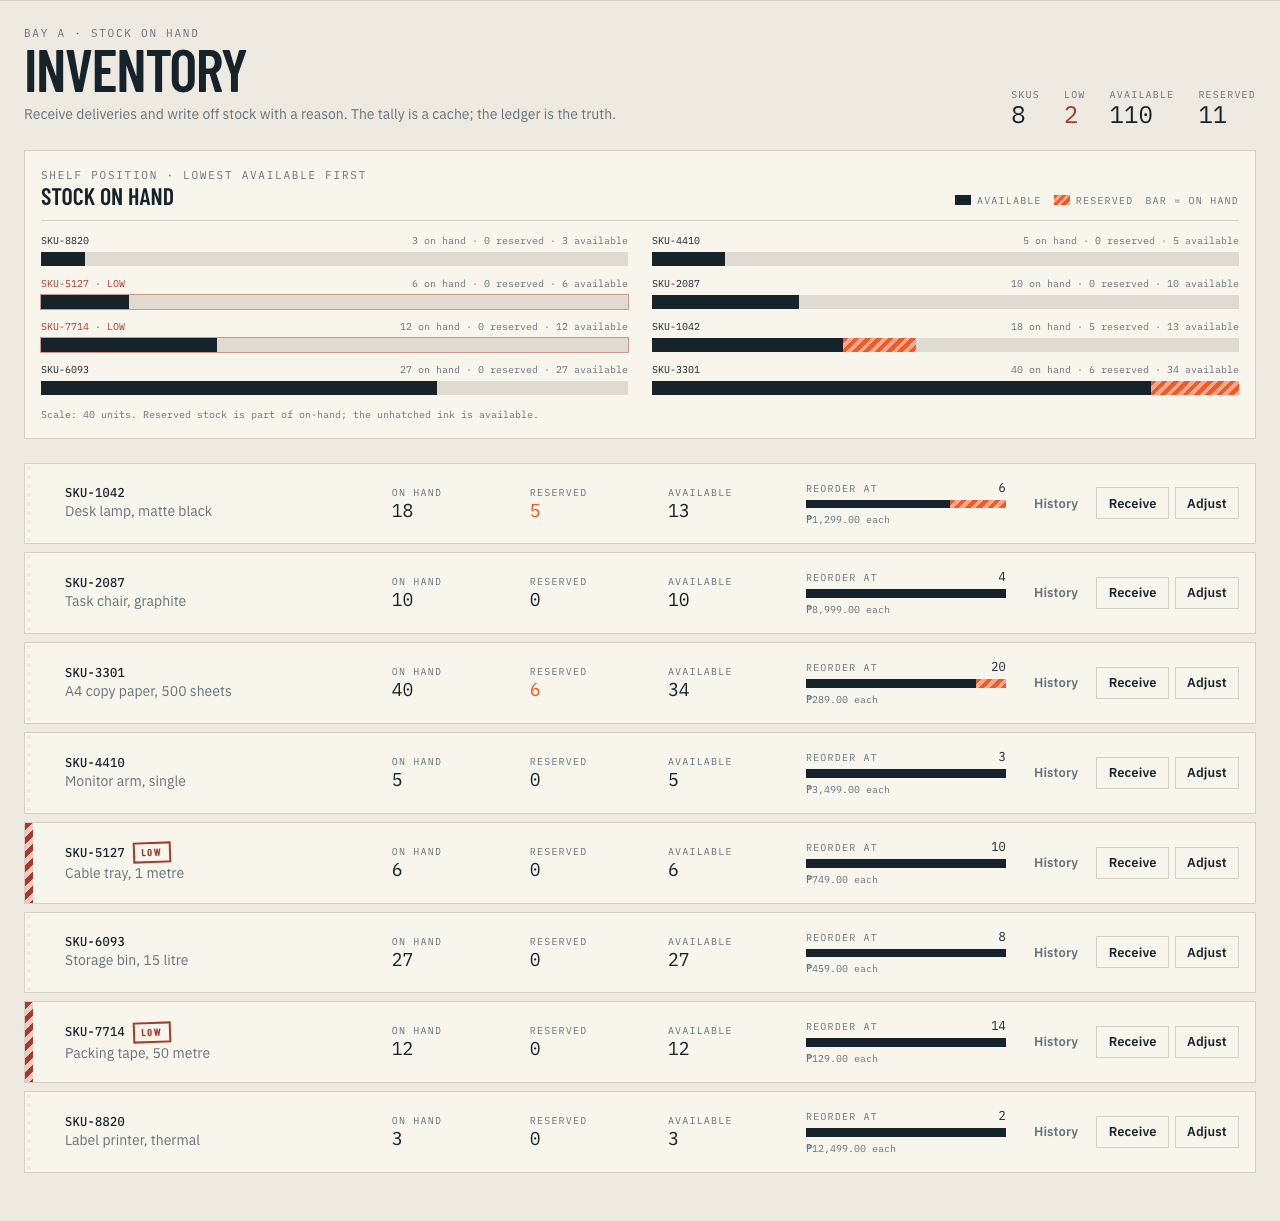
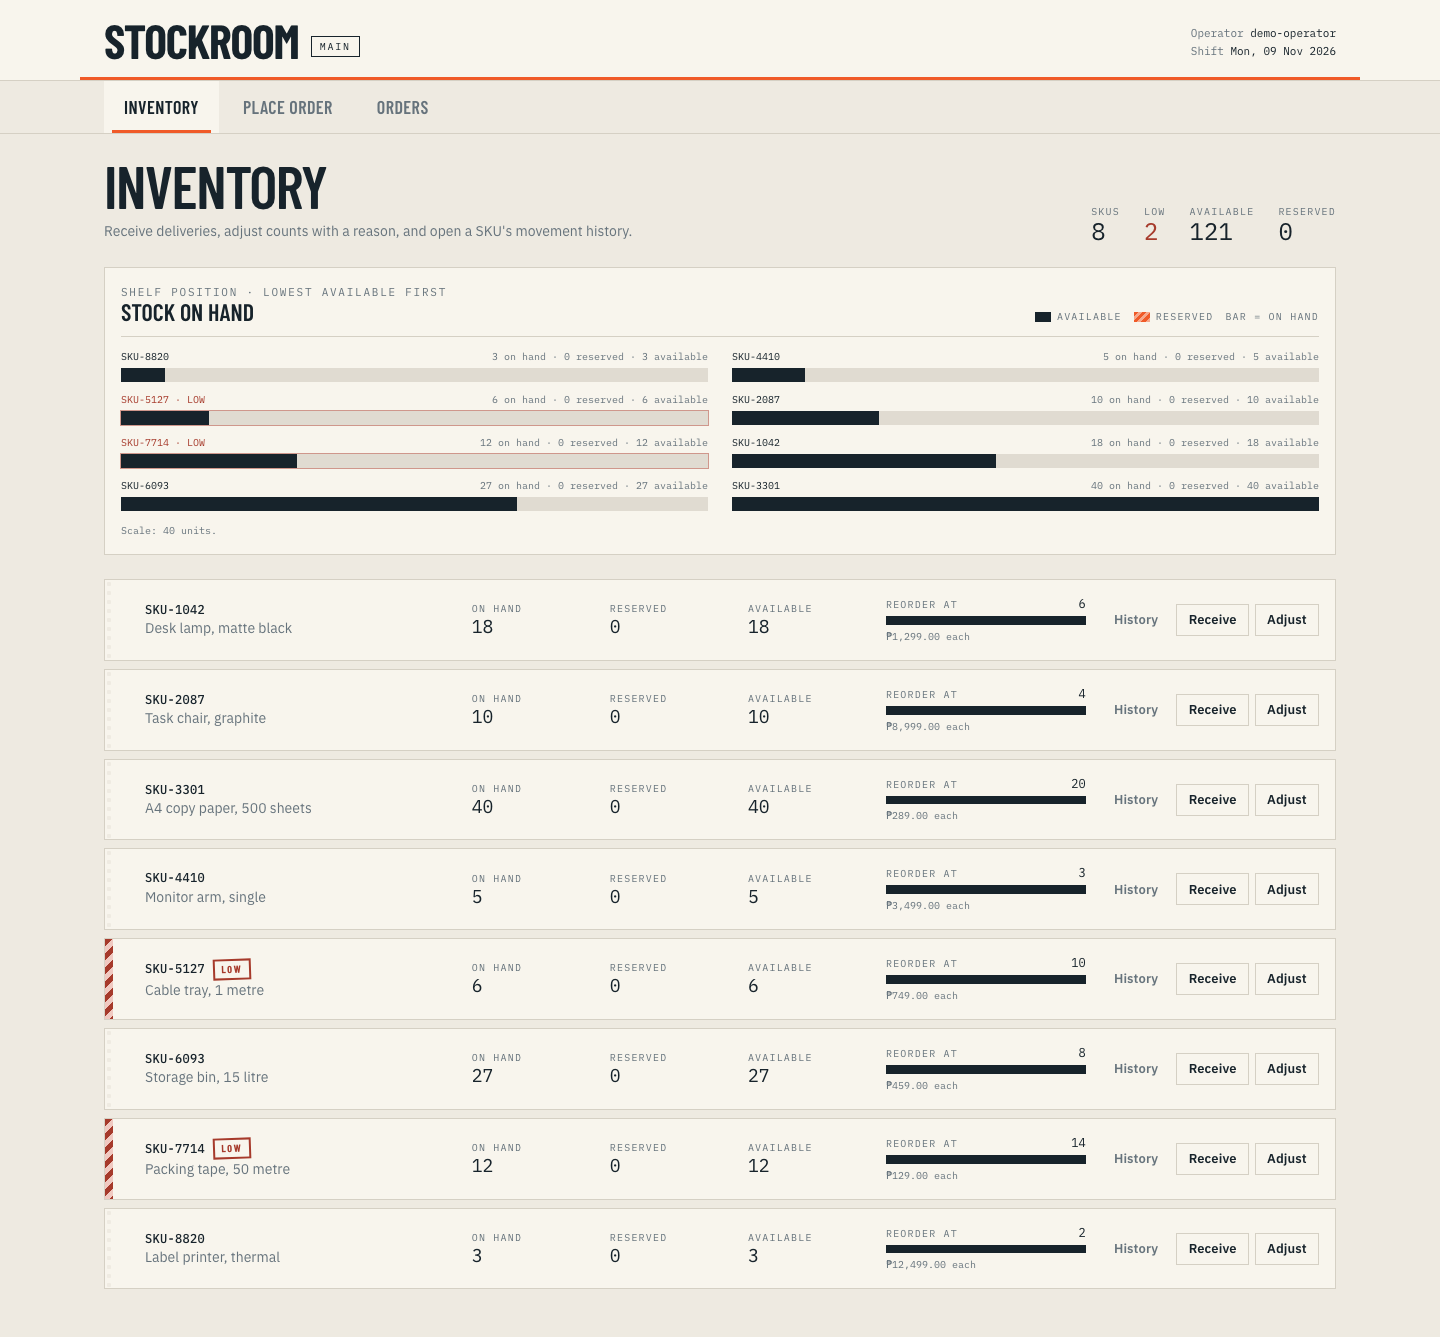
chore(ui): refresh screen copy and README screenshots (#80)
* chore(ui): tighten screen copy and state hints

Name the operator's actions in the three intros, replace the order-book and lane jargon, and make the empty and error copy say what to do next. Tests assert the changed copy only.

* docs: refresh the README screens and screenshots

Match 'What the app does' and 'Screens' to the current copy and label-only navigation, and regenerate all three shots from a fresh seeded stack at 1440x900.

* docs: record session 45 in the AI usage report

Summarise the copy pass, the fresh-stack capture and the validation runs; note the stale e2e helpers and README status wording as out-of-scope gaps.

* test(e2e): follow the label-only navigation and loading copy

Target 'Main navigation' via screenNav/openScreen, wait for the orders list and the new 'Reading orders…' line, and update every spec caller.

* docs: correct Phase 8 status and record the e2e follow-up

Only #70 remains open; #68 and #69 are closed. Extend Session 45 with the e2e helper repair and its local result.

diff --git a/tests/e2e/order-flow.spec.ts b/tests/e2e/order-flow.spec.ts
@@ -1,6 +1,6 @@
 import { expect, test } from "@playwright/test";
 
-import { chartRow, openBay, ordersList, shelfRow } from "./support";
+import { chartRow, openScreen, ordersList, shelfRow } from "./support";
 
 /**
  * US1-AC1 + US4-AC1 (e2e): search a SKU, add it, set quantity and customer
@@ -16,7 +16,7 @@ test("searches, reserves and fulfils an order, and the counters reflect the ship
     "40 on hand · 0 reserved · 40 available",
   );
 
-  await openBay(page, "Place order");
+  await openScreen(page, "Place order");
   await page.getByRole("searchbox", { name: "Search stock" }).fill("SKU-3301");
   await expect(
     page
@@ -34,12 +34,12 @@ test("searches, reserves and fulfils an order, and the counters reflect the ship
   await expect(confirmation).toContainText("201");
   await expect(confirmation).toContainText("confirmed");
 
-  await openBay(page, "Inventory");
+  await openScreen(page, "Inventory");
   await expect(chartRow(page, "SKU-3301")).toContainText(
     "40 on hand · 2 reserved · 38 available",
   );
 
-  await openBay(page, "Orders");
+  await openScreen(page, "Orders");
   await ordersList(page)
     .getByRole("button")
     .filter({ hasText: "E2E-FLOW-1" })
@@ -56,7 +56,7 @@ test("searches, reserves and fulfils an order, and the counters reflect the ship
   await drawer.getByRole("button", { name: "Close order" }).click();
   await expect(drawer).toBeHidden();
 
-  await openBay(page, "Inventory");
+  await openScreen(page, "Inventory");
   await expect(chartRow(page, "SKU-3301")).toContainText(
     "38 on hand · 0 reserved · 38 available",
   );

diff --git a/frontend/src/screens/OrdersScreen.tsx b/frontend/src/screens/OrdersScreen.tsx
@@ -28,7 +28,7 @@ const FILTERS: { id: OrderFilter; label: string }[] = [
 const EMPTY_COPY: Record<OrderFilter, { title: string; body: string }> = {
   all: {
     title: 'No orders yet',
-    body: 'Place an order and it will appear in this lane with its full movement history.',
+    body: 'Place an order and it appears here with its full movement history.',
   },
   confirmed: {
     title: 'No confirmed orders',
@@ -96,7 +96,8 @@ export default function OrdersScreen() {
           Orders
         </h1>
         <p className="mt-2 max-w-2xl text-sm leading-relaxed text-steel">
-          Cancel releases the hold; fulfil moves stock off the shelf.
+          Open an order for its lines and movement timeline; cancel releases the hold, fulfil moves
+          stock off the shelf.
         </p>
       </header>
 
@@ -121,7 +122,7 @@ export default function OrdersScreen() {
       ) : null}
 
       {isPending ? (
-        <p className="mt-5 font-mono text-xs text-steel">Reading the order book…</p>
+        <p className="mt-5 font-mono text-xs text-steel">Reading orders…</p>
       ) : null}
 
       {!isPending && !error && orders.length === 0 ? (
@@ -249,7 +250,7 @@ function OrderDrawer({
         {notFound && !error ? (
           <div className="notice mt-4" role="alert">
             <p className="font-semibold">Order not found</p>
-            <p className="mt-1 leading-relaxed">Pick another order from the lane.</p>
+            <p className="mt-1 leading-relaxed">Pick another order from the list.</p>
           </div>
         ) : null}
 

diff --git a/tests/e2e/short-line.spec.ts b/tests/e2e/short-line.spec.ts
@@ -2,7 +2,7 @@ import { expect, test } from "@playwright/test";
 
 import {
   chartRow,
-  openBay,
+  openScreen,
   ordersList,
   ordersLoaded,
   shelfRow,
@@ -26,12 +26,12 @@ test("a short line rejects the whole order and reserves nothing", async ({
     "10 on hand · 0 reserved · 10 available",
   );
 
-  await openBay(page, "Orders");
+  await openScreen(page, "Orders");
   await ordersLoaded(page);
   const orders = ordersList(page).getByRole("listitem");
   const ordersBefore = await orders.count();
 
-  await openBay(page, "Place order");
+  await openScreen(page, "Place order");
   const search = page.getByRole("searchbox", { name: "Search stock" });
 
   await search.fill("SKU-4410");
@@ -57,7 +57,7 @@ test("a short line rejects the whole order and reserves nothing", async ({
 
   await expect(page.getByRole("status")).toHaveCount(0);
 
-  await openBay(page, "Inventory");
+  await openScreen(page, "Inventory");
   await expect(chartRow(page, "SKU-4410")).toContainText(
     "5 on hand · 0 reserved · 5 available",
   );
@@ -65,7 +65,7 @@ test("a short line rejects the whole order and reserves nothing", async ({
     "10 on hand · 0 reserved · 10 available",
   );
 
-  await openBay(page, "Orders");
+  await openScreen(page, "Orders");
   await ordersLoaded(page);
   await expect(orders).toHaveCount(ordersBefore);
 });

diff --git a/frontend/src/screens/InventoryScreen.tsx b/frontend/src/screens/InventoryScreen.tsx
@@ -110,7 +110,7 @@ export default function InventoryScreen() {
             Inventory
           </h1>
           <p className="mt-2 max-w-2xl text-sm leading-relaxed text-steel">
-            Receive deliveries and write off stock with a reason.
+            Receive deliveries, adjust counts with a reason, and open a SKU's movement history.
           </p>
         </div>
 
@@ -134,7 +134,7 @@ export default function InventoryScreen() {
         <div className="mt-6">
           <EmptyState
             title="No stock yet"
-            body="Receive the first delivery to put a SKU on the shelf."
+            body="Receive a delivery to add the first SKU to the shelf."
           />
         </div>
       ) : null}
@@ -312,7 +312,7 @@ function AdjustDialog({ row, onClose }: { row: StockRow; onClose: () => void }) 
             <InvalidMessage id={deltaErrorId}>Enter a whole number other than zero.</InvalidMessage>
           ) : (
             <span className="mt-1 block font-mono text-[10px] text-steel">
-              {formatMoney(row.unit_price_cents)} per unit · negative writes stock off
+              {formatMoney(row.unit_price_cents)} per unit · a negative adjustment removes stock
             </span>
           )}
         </div>

diff --git a/tests/e2e/support.ts b/tests/e2e/support.ts
@@ -6,12 +6,12 @@ import { expect, type Page } from "@playwright/test";
  * `data-testid` is needed.
  */
 
-export function bayNav(page: Page) {
-  return page.getByRole("navigation", { name: "Stockroom bays" });
+export function screenNav(page: Page) {
+  return page.getByRole("navigation", { name: "Main navigation" });
 }
 
-export async function openBay(page: Page, name: string) {
-  await bayNav(page).getByRole("button", { name }).click();
+export async function openScreen(page: Page, name: string) {
+  await screenNav(page).getByRole("button", { name }).click();
 }
 
 /** One bin ticket in the inventory list. */
@@ -34,7 +34,8 @@ export function ordersList(page: Page) {
   return page.getByRole("list", { name: "Orders" });
 }
 
-/** Wait for the orders lane to finish its first read before counting rows. */
+/** Wait for the orders screen to finish its first read before counting rows. */
 export async function ordersLoaded(page: Page) {
-  await expect(page.getByText("Reading the order book…")).toHaveCount(0);
+  await expect(ordersList(page)).toBeVisible();
+  await expect(page.getByText("Reading orders…")).toHaveCount(0);
 }

diff --git a/frontend/src/screens/PlaceOrderScreen.tsx b/frontend/src/screens/PlaceOrderScreen.tsx
@@ -133,13 +133,14 @@ export default function PlaceOrderScreen() {
           Place order
         </h1>
         <p className="mt-2 max-w-2xl text-sm leading-relaxed text-steel">
-          An order reserves every line or reserves nothing.
+          Add stock to the ticket and reserve it; if any line is short, nothing is reserved and the
+          short lines are named.
         </p>
       </header>
 
       {error ? (
         <div className="mt-6">
-          <ProblemNotice error={error} title="Could not read stock" />
+          <ProblemNotice error={error} title="Could not load availability" />
         </div>
       ) : null}
 
@@ -280,7 +281,7 @@ export default function PlaceOrderScreen() {
 
             {lines.length === 0 ? (
               <p className="mt-5 border border-dashed border-line p-4 text-sm text-steel">
-                No lines yet. Add stock from the shelf list.
+                No lines yet. Add a SKU from the availability list to start the ticket.
               </p>
             ) : (
               <ul className="mt-4" aria-label="Order lines">

diff --git a/frontend/src/screens/OrdersScreen.test.tsx b/frontend/src/screens/OrdersScreen.test.tsx
@@ -295,10 +295,10 @@ describe('orders', () => {
     const api = createMockApi({ latencyMs: 40 });
     renderWithApi(<OrdersScreen />, api);
 
-    expect(screen.getByText('Reading the order book…')).toBeInTheDocument();
+    expect(screen.getByText('Reading orders…')).toBeInTheDocument();
     expect(await screen.findByRole('button', { name: /CUST-88/ })).toBeInTheDocument();
     await waitFor(() =>
-      expect(screen.queryByText('Reading the order book…')).not.toBeInTheDocument(),
+      expect(screen.queryByText('Reading orders…')).not.toBeInTheDocument(),
     );
   });
 

diff --git a/frontend/src/screens/InventoryScreen.test.tsx b/frontend/src/screens/InventoryScreen.test.tsx
@@ -499,7 +499,7 @@ describe('inventory', () => {
     const title = await screen.findByText('No stock yet');
     expect(title.closest('.border-dashed')).not.toBeNull();
     expect(
-      screen.getByText('Receive the first delivery to put a SKU on the shelf.'),
+      screen.getByText('Receive a delivery to add the first SKU to the shelf.'),
     ).toBeInTheDocument();
 
     const list = await stockList();

diff --git a/frontend/src/screens/PlaceOrderScreen.test.tsx b/frontend/src/screens/PlaceOrderScreen.test.tsx
@@ -108,7 +108,7 @@ describe('place order', () => {
     );
     renderWithApi(<PlaceOrderScreen />, api);
 
-    expect(await screen.findByText('Could not read stock')).toBeInTheDocument();
+    expect(await screen.findByText('Could not load availability')).toBeInTheDocument();
     expect(
       screen.getByText('The stock service is not responding.'),
     ).toBeInTheDocument();

diff --git a/_docs/ai-usage-report.md b/_docs/ai-usage-report.md
@@ -55,6 +55,7 @@ the build-only layer that leaked a token into the image" is.
 | 42  | 2026-11-08 | P8    | AI coding agent (software engineer session)            | Complete the reports and refresh the handoff (T8.2, #69)                                   | AI-report summary rows 29–41; new `_docs/operations-and-security-report.md`; `_docs/handoff.md` refreshed to the P8 state; this entry                                                                                                    | Every relative link checked against the worktree; issue numbers checked with `gh issue list --state all`; AI-report rows matched to the detailed entries; `git diff --stat main...HEAD` limited to the three docs; `git diff --check` clean                                                                                         | See notes below     |
 | 43  | 2026-11-08 | P8    | AI coding agent (software engineer session)            | Apply QA's three demo-script corrections: tag, drill override, verdict (#70)               | `_docs/demo-script.md` beat 7 illustrative tag and run link refreshed; appendix step 2 appends the drill environment instead of replacing the override; beat 3 cites the post-merge verdict; this report entry                           | GHCR anonymous `tags/list` and `docker manifest inspect` for 20261108-144014-ff1c4fb; run 42490709942 on main at ff1c4fb; appendix replayed on three /tmp copies (`docker compose config`: remap kept, both keys set); comment 6559807977 returns 200 and is `## QA: post-merge PASS`; `git diff --check` clean                     | See notes below     |
 | 44  | 2026-11-09 | P7    | AI coding agent (software engineer session)            | Preserve a machine-local override when setting up the drill stack (#76)                     | `on-call-engineer/drills/fulfil-last-units-500/README.md` step 2 appends a second YAML document in the `_docs/demo-script.md` shape instead of `cat >`; this report row and entry                                                     | `docker compose config` on throwaway `/tmp` copies: with `ports: !override ["18000:8000"]` exit 0 and `published: "18000"`; with no override exit 0 and `published: "8000"`; both keys carried and `STOCKROOM_BUILD_TIME` kept as a quoted ISO string; `make lint`; `make test` 291 + 91; `git diff --check` clean                              | See notes below     |
+| 45  | 2026-11-09 | P8    | AI coding agent (software engineer session)            | Refresh the screen copy and regenerate the README screenshots                               | Enhanced intro, loading, empty, error and hint copy in the three screens; updated the four copy assertions; refreshed README "What the app does" and "Screens"; fixed the e2e navigation and loading helpers; corrected the README Status rows; regenerated `_docs/screenshots/*.png`; this report row and entry       | `npm run typecheck`, `npm run lint`, `npm test` (10 files, 91 passed, 1 skipped), `make lint` and `make e2e` (4 passed, 6 skipped); fresh `stockroom-screens` Compose project on port 8000 with a new volume, Playwright at 1440×900, all three images inspected; `git status` limited to the intended files                 | See notes below     |
 
 ## Session 1 — 2026-10-27: scoping and specification
 
@@ -2196,6 +2197,59 @@ code. Did not commit an override file.
 **Known gaps.** The verification used a throwaway git repo and `/tmp` copies, so it proves the
 command shape and the Compose merge, not a live drill replay. The branch named in the README's
 `git rev-parse` is expected to exist on the replay machine, as the drill setup creates it.
+
+## Session 45 — 2026-11-09: screen copy and README screenshots
+
+**What I asked for.** A follow-up UI/README copy pass after #68: improve the three screen intros,
+loading/empty/error copy and any terse or jargon-heavy screen hints; refresh "What the app does" and
+"Screens" for the label-only navigation; regenerate the three screenshots from a fresh seeded stack
+at desktop width. Keep structure, layout, components and behaviour unchanged; do not re-add the
+filler removed in the copy audit; keep the change scoped; do not reuse the `stockroom-qa-cursor`
+stack. A review follow-up then asked for the e2e helper drift and the stale README Status rows to be
+fixed in the same branch.
+
+**What AI did.**
+
+- Inventory: the intro now names receive, adjust and movement history; the empty state says what to
+  do first; the adjustment hint says a negative adjustment removes stock.
+- Place order: the intro says to add stock and reserve it, with the all-or-nothing short-line
+  consequence; the stock error names availability; the empty ticket points at the availability
+  list.
+- Orders: the intro includes opening an order for its timeline; "order book" and "lane" became
+  "orders" and "list"; the order-not-found copy points at the list.
+- Updated the four tests that asserted the changed copy; no behavioural assertion was weakened.
+- README: refreshed the three rows in "What the app does", the Screens intro (label-only
+  navigation) and the three alt texts.
+- Regenerated `_docs/screenshots/{inventory,place-order,orders}.png` with a throwaway Playwright
+  script, then deleted the script and the stack.
+- Review follow-up: repaired the e2e drift — `bayNav`/`openBay` became `screenNav`/`openScreen`
+  against the `Main navigation` label, `ordersLoaded` waits on the new `Reading orders…` line and
+  the orders list, and every spec caller was updated. Also corrected the README Status paragraph,
+  Tracker row and Next row for closed #68 and #69.
+
+**Verified myself.**
+
+- `npm run typecheck`, `npm run lint`, `npm test`: 10 files, 91 passed, 1 skipped.
+- `make lint`: ruff check, ruff format check (82 files), tsc and eslint clean.
+- `make e2e`: 4 passed, 6 skipped in 4.0s. The passing specs were the two inventory journeys, the
+  order flow and the short line; the six opt-in observability specs skipped as designed. The run
+  started and tore down its own `stockroom-e2e` stack.
+- Capture: `docker compose -p stockroom-screens up --build -d` on port 8000 with a fresh
+  `stockroom-screens_stockroom-db` volume; Playwright Chromium at 1440×900 with reduced motion;
+  inventory and place-order full-page, orders viewport. Inspected all three images: eight SKUs, the
+  two low-stock badges, two ticket lines beside availability, and the drawer timeline.
+  `docker compose -p stockroom-screens down -v` removed the containers, network and volume.
+- `git status` contains only `README.md`, the three PNGs, the three screens, their three tests,
+  `tests/e2e/support.ts` with the two specs that use it, and this report.
+
+**Overruled / changed.** Did not add components, icons, colours or motion, and did not restore any of
+the internal or marketing copy removed in the copy audit. Did not modify `playwright.config.ts`, the
+e2e Compose override or unrelated README sections; the e2e edit is limited to the renamed
+navigation helper and the loading wait. The order shown in the Orders screenshot (`CUST-DEMO`,
+SKU-1042 and SKU-3301) was created through the real UI against the fresh seed, not hand-edited.
+
+**Known gaps.** The six observability e2e specs are opt-in and were skipped. CI does not run the
+e2e suite, so the local 4/4 result is the only e2e proof for this branch. No other blockers.
 
 ## Template
 

diff --git a/README.md b/README.md
@@ -20,15 +20,17 @@ Stockroom replaces the sheet with a system where:
 
 | Screen          | What you do there                                                                                                                        |
 | --------------- | ---------------------------------------------------------------------------------------------------------------------------------------- |
-| **Inventory**   | On-hand, reserved and available per SKU; stock position chart; low-stock badges; receive or adjust stock with a required reason and note |
-| **Place order** | Pick SKUs, see live availability, submit; if any line is short, the short lines are named individually                                   |
-| **Orders**      | Filter by status, cancel or fulfil, and read the movement timeline for an order or a SKU                                                 |
+| **Inventory**   | On-hand, reserved and available per SKU, the stock position chart and low-stock badges; receive deliveries or adjust counts with a required reason note; open a SKU's movement history |
+| **Place order** | Add SKUs from live availability to an order ticket, then reserve them; if any line is short, nothing is reserved and each short line is named                                           |
+| **Orders**      | Filter by status, open an order for its lines and movement timeline, then cancel (releases the hold) or fulfil (moves stock off the shelf)                                            |
 
 ## Screens
 
-Captured from the running seeded stack at desktop width. The inventory shows both low-stock badges
-and the shelf-position chart; the order ticket carries two real lines and their availability; the
-order drawer shows the reservation in the movement timeline.
+Captured from the running seeded stack at desktop width. All three screens share one label-only
+navigation: Inventory, Place order and Orders. The inventory shows all eight seeded SKUs with the
+shelf-position chart and low-stock badges on SKU-5127 and SKU-7714; the order ticket carries two
+real lines beside the live availability list; the order drawer shows the reservation in the
+movement timeline.
 
 ### Inventory
 
@@ -36,11 +38,11 @@ order drawer shows the reservation in the movement timeline.
 
 ### Place order
 
-![Place order screen: an order ticket for customer reference CUST-DEMO with two lines, quantities and prices, beside the live availability list](_docs/screenshots/place-order.png)
+![Place order screen: the availability list beside an order ticket for customer reference CUST-DEMO with two lines, quantities and prices](_docs/screenshots/place-order.png)
 
 ### Orders
 
-![Orders screen: the CUST-DEMO order detail drawer with line totals and the append-only movement timeline showing its reserve movement](_docs/screenshots/orders.png)
+![Orders screen: the CUST-DEMO order detail drawer with two lines, their reservations, and the movement timeline showing both reserve movements](_docs/screenshots/orders.png)
 
 ## Demo video
 
@@ -119,9 +121,9 @@ flowchart LR
 
 **Phase 7 is complete; Phase 8 (docs and demo) is in progress.** P1–P7 are merged: the app on the
 real API, the unit/integration/concurrency/e2e suites, the one-container release image, the local
-observability stack and the on-call drill. P1–P7 leave 0 open issues. Phase 8 is the three tasks in
-the tracker: final README and screenshots (#68), reports and handoff (#69), and the demo video,
-peer reviews and submission (#70).
+observability stack and the on-call drill. P1–P7 leave 0 open issues. #68 (README and screenshots)
+and #69 (reports and handoff) are closed, so Phase 8's only remaining task is the demo video, peer
+reviews and submission (#70).
 
 The original seven-day build window ended on 2026-11-03; it never included a confirmed course
 platform deadline. That deadline is still open question O1 in
@@ -130,9 +132,9 @@ platform deadline. That deadline is still open question O1 in
 |            |                                                                                               |
 | ---------- | --------------------------------------------------------------------------------------------- |
 | Repo       | https://github.com/cancinoray/stockroom                                                       |
-| Tracker    | P1–P7 issues closed (0 open); #68–#70 are the open Phase 8 tasks                              |
+| Tracker    | P1–P7 issues closed (0 open); #70 is the only open Phase 8 task                              |
 | Built      | Backend, generated client, three screens, and unit/integration/concurrency/e2e suites         |
-| Next       | Phase 8: README/screenshots (#68), reports and handoff (#69), demo video and submission (#70) |
+| Next       | Phase 8: demo video, peer reviews and submission (#70)                                       |
 | Deployment | Local and self-hosted `docker compose`; one container, no managed platform                    |
 
 ## Run it locally
